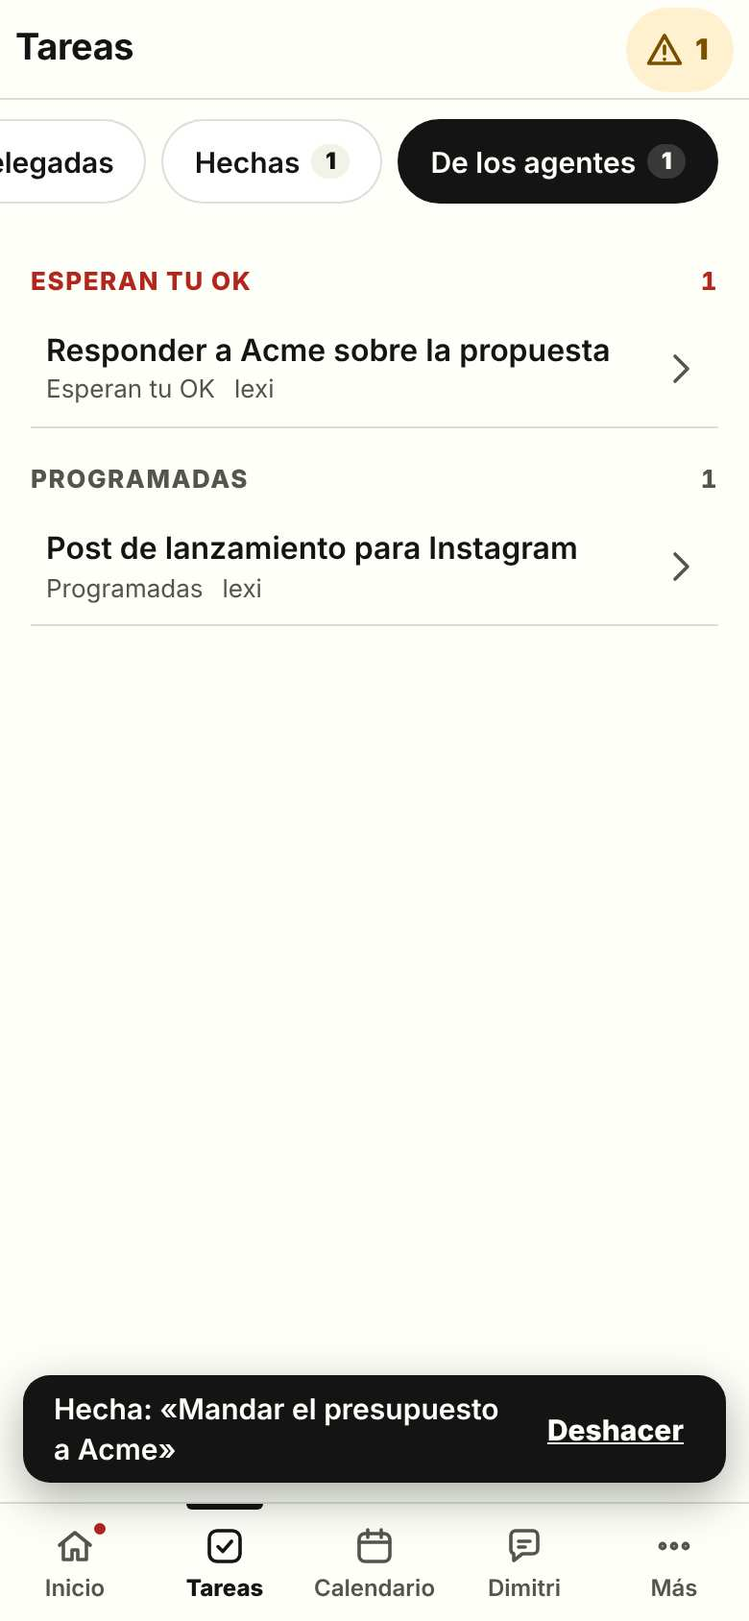
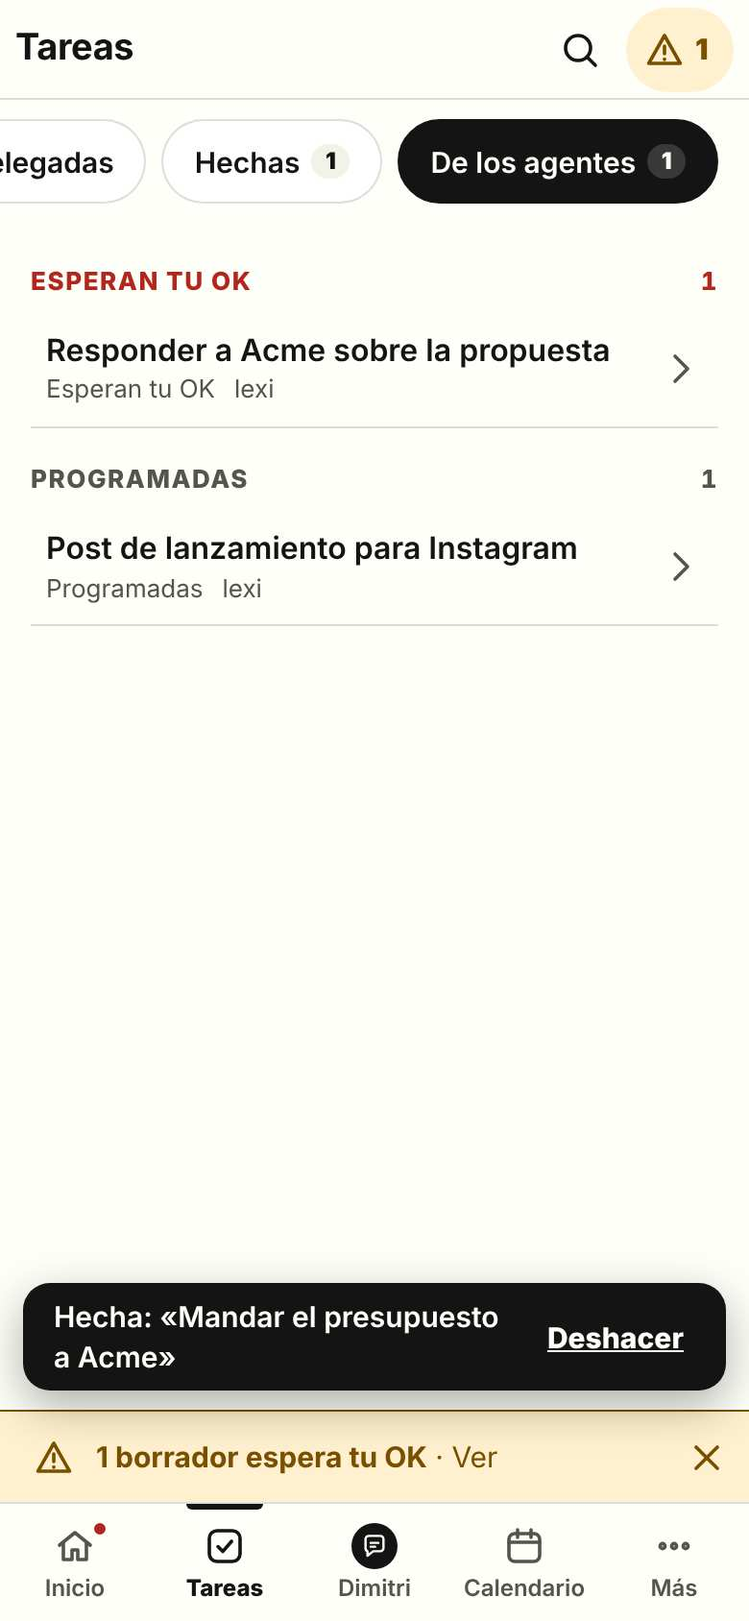
Versión móvil: lo que pidió la auditoría — Dimitri al centro, conectores a la vista, Buscar, franja de aprobación, 3 días, viewport-fit y axe
Barra Inicio · Tareas · Dimitri · Calendario · Más; tarjeta de conectores en Inicio con sus iconos y hoja de detalle; Buscar en la cabecera;
Avisos en Más; franja «N borradores esperan tu OK» sobre la barra (se puede ocultar); vista de 3 días; viewport-fit=cover mientras dura la
versión móvil; el recorrido pasa axe (claro y oscuro) y llega a 119 comprobaciones.

Claude-Session: https://claude.ai/code/session_01VVYE9BByBxn1UtVvnUMS6i

Changed region(s): [[0.0, 0.7701, 1.0, 0.9858], [0.7692, 0.0308, 0.8, 0.0616]]

diff --git a/src/css/movil.css b/src/css/movil.css
@@ -35,6 +35,10 @@ body.movil.subOpen #subOv, body.movil.subOpen #subOv * { visibility: visible; }
 .mv-ic:active { background: var(--mv-surf2); }
 .mv-pend { min-height: 44px; min-width: 56px; padding: 0 12px 0 8px; display: inline-flex; align-items: center; gap: 4px; border: 0; border-radius: 22px; background: var(--mv-ambar-bg); color: var(--mv-ambar); font-weight: 800; font-size: 15px; }
 .mv-pend .mv-i { width: 20px; height: 20px; }
+.mv-franja { position: absolute; z-index: 4; left: 0; right: 0; bottom: calc(var(--mv-tab) + env(safe-area-inset-bottom)); height: 48px; display: flex; align-items: center; background: var(--mv-ambar-bg); color: var(--mv-ambar); border-top: 1px solid var(--mv-ambar); pointer-events: auto; padding-left: env(safe-area-inset-left); }
+.mv-franja[hidden] { display: none; } .mv-franja-b { flex: 1; min-height: 48px; display: flex; align-items: center; gap: 10px; padding: 0 16px; border: 0; background: none; text-align: left; font-size: 15px; } .mv-franja-b .mv-i { width: 22px; height: 22px; }
+#mvRoot.con-franja .mv-main { bottom: calc(var(--mv-tab) + env(safe-area-inset-bottom) + 48px); } #mvRoot.con-franja .mv-toasts { bottom: calc(var(--mv-tab) + env(safe-area-inset-bottom) + 58px); }
+body.mv-teclado .mv-franja { display: none; } body.mv-teclado #mvRoot.con-franja .mv-main { bottom: 0; }
 .mv-conex { font-size: 12px; font-weight: 700; padding: 4px 8px; border-radius: 99px; background: var(--mv-rojo-bg); color: var(--mv-rojo); margin-right: 4px; }
 
 /* ---- el cuerpo y las vistas ---- */
@@ -54,6 +58,8 @@ body.mv-esc .mv-main { display: none; }
 .mv-tabs { position: absolute; z-index: 5; left: 0; right: 0; bottom: 0; height: calc(var(--mv-tab) + env(safe-area-inset-bottom)); padding: 0 env(safe-area-inset-right) env(safe-area-inset-bottom) env(safe-area-inset-left); display: grid; grid-template-columns: repeat(5, 1fr); background: var(--mv-bg); border-top: 1px solid var(--mv-line); pointer-events: auto; }
 .mv-tab { position: relative; min-height: 44px; border: 0; background: none; padding: 6px 2px 4px; display: flex; flex-direction: column; align-items: center; justify-content: center; gap: 2px; font-size: 12px; font-weight: 600; color: var(--mv-grey); }
 .mv-tab.on { color: var(--mv-ink); font-weight: 800; }
+.mv-tab[data-tab="dimitri"] .mv-i { background: var(--mv-ink); color: var(--mv-bg); border-radius: 14px; padding: 4px; width: 38px; height: 30px; }
+.mv-tab[data-tab="dimitri"].on .mv-i { box-shadow: 0 0 0 2px var(--mv-bg), 0 0 0 4px var(--mv-ink); }
 .mv-tab.on::before { content: ''; position: absolute; top: 0; left: 24%; right: 24%; height: 3px; border-radius: 0 0 3px 3px; background: var(--mv-ink); }
 .mv-tab .mv-i { width: 26px; height: 26px; }
 .mv-punto { position: absolute; top: 8px; left: calc(50% + 8px); width: 10px; height: 10px; border-radius: 50%; background: var(--mv-rojo); border: 2px solid var(--mv-bg); }
@@ -174,6 +180,14 @@ body.mv-esc .mv-main { display: none; }
 .mv-mas-link { min-height: 44px; border: 0; background: none; color: var(--mv-azul); font-weight: 700; padding: 0; }
 .mv-atajos { display: grid; grid-template-columns: 1fr 1fr; gap: 10px; margin-top: 4px; } .mv-atajos button { min-height: 76px; border: 1.5px solid var(--mv-line); border-radius: var(--mv-radio); background: var(--mv-surf); display: flex; flex-direction: column; align-items: center; justify-content: center; gap: 4px; font-weight: 700; font-size: 15px; padding: 8px; }
 
+/* ---- conectores ---- */
+.mv-cxs { display: flex; flex-wrap: wrap; gap: 10px; padding: 4px 0 10px; align-items: center; }
+.mv-cx { position: relative; display: inline-grid; place-items: center; width: 40px; height: 40px; border-radius: 11px; background: var(--mv-surf2); flex: none; }
+.mv-cx img { width: 36px; height: 36px; border-radius: 9px; display: block; } .mv-cx b { font-size: 18px; } .mv-cx i { position: absolute; right: -3px; bottom: -3px; width: 12px; height: 12px; border-radius: 50%; border: 2px solid var(--mv-surf); background: var(--mv-acc); }
+.mv-cx.warn i { background: #D18A00; } .mv-cx.bad i { background: var(--mv-rojo); }
+.mv-cx-mas { font-size: 14px; font-weight: 800; color: var(--mv-grey); padding: 0 6px; }
+.mv-cxl { list-style: none; margin: 0 0 10px; padding: 0; } .mv-cxf { display: flex; gap: 14px; align-items: center; padding: 10px 0; border-bottom: 1px solid var(--mv-line); } .mv-cxf-t { display: flex; flex-direction: column; min-width: 0; } .mv-cxf-t small { font-size: 13px; color: var(--mv-grey); } .mv-cxf-t small.ok { color: var(--mv-acc); font-weight: 700; } .mv-cxf-t small.warn { color: var(--mv-ambar); font-weight: 700; } .mv-cxf-t small.bad { color: var(--mv-rojo); font-weight: 700; }
+.mv-mini li.nuevo { font-weight: 700; }
 /* ---- Más ---- */
 .mv-lista { list-style: none; margin: 0; padding: 0; border: 1.5px solid var(--mv-line); border-radius: var(--mv-radio); overflow: hidden; background: var(--mv-surf); } .mv-lista li + li { border-top: 1px solid var(--mv-line); }
 .mv-lista-b { width: 100%; min-height: 60px; display: flex; align-items: center; gap: 14px; padding: 8px 6px 8px 14px; border: 0; background: none; text-align: left; } .mv-lista-b span { flex: 1; display: flex; flex-direction: column; min-width: 0; } .mv-lista-b small { font-size: 13px; color: var(--mv-grey); } .mv-lista-i { width: 26px; height: 26px; }

diff --git a/src/movil/shell.js b/src/movil/shell.js
@@ -34,7 +34,7 @@ import { esc, svg, vacio, esqueleto, falla, html } from './ui.js';
 
 export function crearShell() {
   const registro = new Map(), pila = crearPila();
-  let tab = RAIZ, pantalla = null, enlinea = true, raiz = null, hojas = null, store = null, api = null, activo = false;
+  let franjaNo = false, tab = RAIZ, pantalla = null, enlinea = true, raiz = null, hojas = null, store = null, api = null, activo = false;
   const cab = new Map(); // id de vista → { titulo, acciones } que puso la vista
   const refs = {};
 
@@ -49,16 +49,20 @@ export function crearShell() {
         <div class="mv-bar-der">
           <span class="mv-conex" role="status" hidden>Sin conexión</span>
           <span class="mv-acc" id="mvAcc"></span>
+          <button type="button" class="mv-ic mv-buscar" aria-label="Buscar en la oficina">${svg('buscar')}</button>
           <button type="button" class="mv-pend" id="mvAprob" hidden></button>
         </div>
       </header>
       <main class="mv-main" id="mvMain" tabindex="-1"></main>
+      <div class="mv-franja" hidden><button type="button" class="mv-franja-b" data-ver></button><button type="button" class="mv-ic" data-no aria-label="Ocultar este aviso">${svg('cerrar')}</button></div>
       <nav class="mv-tabs" aria-label="Secciones">${TABS.map(t => `<button type="button" class="mv-tab" data-tab="${t.id}" aria-current="false">${svg(t.id)}<span>${esc(t.titulo)}</span><i class="mv-punto" hidden></i></button>`).join('')}</nav>
       <div class="mv-toasts" aria-live="polite" role="status"></div>`;
     document.body.append(raiz);
     refs.main = $('#mvMain'); refs.titulo = $('#mvTitulo'); refs.atras = $('.mv-atras'); refs.aprob = $('#mvAprob'); refs.acc = $('#mvAcc'); refs.conex = $('.mv-conex'); refs.toasts = $('.mv-toasts');
     refs.atras.addEventListener('click', volver);
+    $('.mv-franja').addEventListener('click', e => { if (e.target.closest('[data-no]')) { franjaNo = true; pintarCabecera(); } else if (e.target.closest('[data-ver]')) navegar('aprobaciones'); });
     refs.aprob.addEventListener('click', () => navegar('aprobaciones'));
+    $('.mv-buscar').addEventListener('click', () => abrirEscritorio('buscar'));
     $('.mv-tabs').addEventListener('click', e => { const b = e.target.closest('[data-tab]'); if (b) irPestana(b.dataset.tab, b); });
     refs.acc.addEventListener('click', e => { const b = e.target.closest('[data-i]'); if (!b) return; const c = cab.get(pantalla || tab); c?.acciones?.[+b.dataset.i]?.alTocar?.(b); });
   }
@@ -135,7 +139,10 @@ export function crearShell() {
     refs.atras.hidden = !(enEsc || pantalla); refs.atras.setAttribute('aria-label', enEsc ? 'Volver a Más' : 'Volver');
     refs.acc.innerHTML = enEsc || hojaAbierta && false ? '' : (c.acciones || []).map((a, i) => `<button type="button" class="mv-ic" data-i="${i}" aria-label="${esc(a.etiqueta)}">${svg(a.icono)}</button>`).join('');
     const n = store ? store.aprobaciones.length : 0;
-    refs.aprob.hidden = !n || enEsc; refs.aprob.innerHTML = `${svg('alerta')}<b>${n}</b>`; refs.aprob.setAttribute('aria-label', `${n} ${n === 1 ? 'espera' : 'esperan'} tu visto bueno. Abrir`);
+    refs.aprob.hidden = !n || (enEsc && pila.cima().item.ventana); refs.aprob.innerHTML = `${svg('alerta')}<b>${n}</b>`; refs.aprob.setAttribute('aria-label', `${n} ${n === 1 ? 'espera' : 'esperan'} tu visto bueno. Abrir`);
+    const fr = raiz.querySelector('.mv-franja'), hay = n > 0 && !franjaNo && id !== 'aprobaciones' && !enEsc;
+    fr.hidden = !hay; raiz.classList.toggle('con-franja', hay);
+    if (hay) fr.querySelector('[data-ver]').innerHTML = `${svg('alerta')}<span><b>${n === 1 ? '1 borrador espera' : n + ' borradores esperan'} tu OK</b> · Ver</span>`;
     const punto = raiz.querySelector('[data-tab="inicio"] .mv-punto'); if (punto) punto.hidden = !n;
   }
 
@@ -234,6 +241,7 @@ export function crearShell() {
     construir();
     hojas = crearHojas({ raiz, empujar, soltar, inertes: () => [$('.mv-bar'), refs.main, $('.mv-tabs')] });
     document.body.classList.add('movil');
+    const mv = document.querySelector('meta[name=viewport]'); if (mv && !/viewport-fit/.test(mv.content)) { mv.dataset.antes = mv.content; mv.content += ', viewport-fit=cover'; } // el contenido llega al borde y env(safe-area-inset-*) deja sitio a la muesca
     addEventListener('popstate', alPopState);
     try { history.replaceState({ mv: 0 }, '', location.href); } catch {}
     const h = leerHash(location.hash); tab = TABS.some(t => t.id === h.vista) ? h.vista : RAIZ; params = h.params;
@@ -243,6 +251,7 @@ export function crearShell() {
   function apagar() {
     if (!activo) return; activo = false; cerrarTodas(); store?.detener(); removeEventListener('popstate', alPopState);
     for (const r of registro.values()) { if (r.montada) { r.def.desmontar?.(r.el, r.ctx); r.el.remove(); r.montada = false; r.el = null; } }
+    const mv = document.querySelector('meta[name=viewport][data-antes]'); if (mv) { mv.content = mv.dataset.antes; delete mv.dataset.antes; }
     raiz?.remove(); raiz = null; hojas = null; document.body.classList.remove('movil', 'mv-esc', 'mv-ventana', 'mv-teclado'); pantalla = null; tab = RAIZ; ultima = null;
   }
   return {

diff --git a/src/movil/vistas/inicio.js b/src/movil/vistas/inicio.js
@@ -4,6 +4,8 @@
 import { deLista, esDelDueno } from '../../../tareas/dueno.mjs';
 import { eventos, horaDe, etiquetaDia } from '../agenda.js';
 import { esc, svg, esqueleto, falla, hace, limiteTexto } from '../ui.js';
+import { tarjetaHTML, abrirConectores } from '../conectores.js';
+import { abrirAvisos } from '../avisos.js';
 import { ymd } from '../ui.js';
 
 const saludo = () => { const h = new Date().getHours(); return h < 6 ? 'Buenas noches' : h < 12 ? 'Buenos días' : h < 19 ? 'Buenas tardes' : 'Buenas noches'; };
@@ -15,6 +17,7 @@ export function registrar(shell) {
     id: 'inicio', titulo: () => empresa() || 'Inicio', icono: 'inicio', grupo: 'tab',
     montar(el, ctx) {
       el.innerHTML = '<div class="mv-scroll"><div class="mv-cuerpo" aria-live="polite"></div></div>';
+      let mcp = null; const cargaMcp = () => ctx.store.conectores().then(j => { mcp = j; pintar(); }).catch(() => {});
       const cuerpo = el.querySelector('.mv-cuerpo'), sc = el.querySelector('.mv-scroll'), st = ctx.store.st;
       function pintar() {
         if (!st.cargado) { cuerpo.innerHTML = st.error ? falla(st.error) : `<h2 class="mv-saludo-t">${saludo()}</h2>${esqueleto(4)}`; return; }
@@ -29,7 +32,8 @@ export function registrar(shell) {
             ${hoy.length ? `<ul class="mv-filas">${hoy.slice(0, 4).map(t => `<li class="mv-fila" data-id="${esc(t.id)}"><button type="button" class="mv-check" data-hecha aria-label="Marcar como hecha: ${esc(t.title)}"><i>${svg('check')}</i></button><button type="button" class="mv-fila-cuerpo" data-abrir><span class="mv-fila-t">${esc(t.title)}</span>${t.limite ? `<span class="mv-fila-m"><span class="${limiteTexto(t.limite).startsWith('vencida') ? 'rojo' : ''}">${esc(limiteTexto(t.limite))}</span></span>` : ''}</button></li>`).join('')}</ul>${hoy.length > 4 ? `<button type="button" class="mv-mas-link" data-tareas>Ver las ${hoy.length}</button>` : ''}` : '<p class="mv-nada">Nada para hoy. Buen momento para adelantar algo.</p>'}</section>
           <section class="mv-card" aria-label="Lo que viene"><button type="button" class="mv-card-cab" data-agenda><span class="mv-card-t">${svg('calendario')} Lo que viene</span>${svg('der', 'mv-der')}</button>
             ${evs.length ? `<ul class="mv-mini ev">${evs.map(e => `<li><time>${esc(etiquetaDia(ymd(new Date(e.at))))} · ${esc(horaDe(e))}</time> ${esc(e.titulo)}</li>`).join('')}</ul>` : '<p class="mv-nada">Nada programado para hoy ni mañana.</p>'}</section>
-          ${avisos.length ? `<section class="mv-card" aria-label="Avisos"><div class="mv-card-cab static"><span class="mv-card-t">${svg('nube')} Avisos</span><button type="button" class="mv-link" data-leidos>Marcar leídos</button></div><ul class="mv-mini">${avisos.map(n => `<li class="${esc(n.level || '')}">${esc(String(n.text).replace(/`/g, '').slice(0, 160))} <time>${n.t ? hace(n.t) : ''}</time></li>`).join('')}</ul></section>` : ''}
+          ${mcp ? tarjetaHTML(mcp) : ''}
+          ${avisos.length ? `<section class="mv-card" aria-label="Avisos"><div class="mv-card-cab static"><span class="mv-card-t">${svg('nube')} Avisos</span><button type="button" class="mv-link" data-avisos>Ver todos</button><button type="button" class="mv-link" data-leidos>Marcar leídos</button></div><ul class="mv-mini">${avisos.map(n => `<li class="${esc(n.level || '')}">${esc(String(n.text).replace(/`/g, '').slice(0, 160))} <time>${n.t ? hace(n.t) : ''}</time></li>`).join('')}</ul></section>` : ''}
           <div class="mv-atajos" role="group" aria-label="Atajos"><button type="button" data-nueva>${svg('mas1')}<span>Añadir tarea</span></button><button type="button" data-dim>${svg('dimitri')}<span>Hablar con Dimitri</span></button><button type="button" data-agenda>${svg('calendario')}<span>Ver la agenda</span></button><button type="button" data-mas>${svg('mas')}<span>Más</span></button></div>`;
       }
       cuerpo.addEventListener('click', async e => {
@@ -41,6 +45,8 @@ export function registrar(shell) {
         if ('nueva' in b.dataset) return ctx.navegar('tareas', { nueva: 1 });
         if ('dim' in b.dataset) return ctx.navegar('dimitri');
         if ('mas' in b.dataset) return document.querySelector('[data-tab="mas"]')?.click();
+        if ('conectores' in b.dataset) { try { abrirConectores(ctx, await ctx.store.conectores(true)); } catch (er) { ctx.toast('No se pudieron leer los conectores: ' + er.message); } return; }
+        if ('avisos' in b.dataset) return abrirAvisos(ctx);
         if ('leidos' in b.dataset) { try { await ctx.api('/api/notices/read', { method: 'POST', body: {} }); } catch {} return ctx.store.refrescar(); }
         if (b.hasAttribute('data-reintentar')) return ctx.store.refrescar();
         const li = b.closest('.mv-fila'); if (!li) return;
@@ -54,8 +60,8 @@ export function registrar(shell) {
       });
       ctx.tirar(sc, () => ctx.store.refrescar());
       ctx.store.alCambiar(() => { if (!el.hidden) pintar(); });
-      pintar();
+      el._mcp = cargaMcp; pintar(); cargaMcp();
     },
-    alMostrar(el, ctx) { ctx.store.refrescar(); },
+    alMostrar(el, ctx) { ctx.store.refrescar(); el._mcp?.(); },
   });
 }

diff --git a/src/movil/vistas/calendario.js b/src/movil/vistas/calendario.js
@@ -14,10 +14,10 @@ export function registrar(shell) {
     id: 'calendario', titulo: 'Calendario', icono: 'calendario', grupo: 'tab',
     montar(el, ctx) {
       let modo = 'agenda', ancla = Date.now(), diaSel = ymd(new Date()), cargando = true; const st = ctx.store.st;
-      el.innerHTML = `<div class="mv-scroll"><div class="mv-seg" role="group" aria-label="Cómo verlo"><button type="button" data-modo="agenda" aria-pressed="true">Agenda</button><button type="button" data-modo="mes" aria-pressed="false">Mes</button></div><div class="mv-cuerpo" aria-live="polite"></div></div>
+      el.innerHTML = `<div class="mv-scroll"><div class="mv-seg" role="group" aria-label="Cómo verlo"><button type="button" data-modo="agenda" aria-pressed="true">Agenda</button><button type="button" data-modo="tres" aria-pressed="false">3 días</button><button type="button" data-modo="mes" aria-pressed="false">Mes</button></div><div class="mv-cuerpo" aria-live="polite"></div></div>
         <button type="button" class="mv-fab" aria-label="Crear una tarea">${svg('mas1')}</button>`;
       const cuerpo = el.querySelector('.mv-cuerpo'), sc = el.querySelector('.mv-scroll'), seg = el.querySelector('.mv-seg');
-      const rangoAgenda = () => { const d = new Date(); d.setHours(0, 0, 0, 0); return [d.getTime(), d.getTime() + 30 * DIA]; };
+      const rangoAgenda = () => { const d = new Date(); d.setHours(0, 0, 0, 0); return [d.getTime(), d.getTime() + (modo === 'tres' ? 3 : 30) * DIA]; };
 
       function item(e) {
         const clase = e.pausada || e.saltada ? ' pausada' : '', extra = e.saltada ? ' · saltada' : e.pausada ? ' · en pausa' : '';
@@ -25,8 +25,8 @@ export function registrar(shell) {
       }
       function pintarAgenda() {
         const [d, h] = rangoAgenda(), evs = eventos({ tareas: st.tareas, rutinas: st.rutinas, desde: d, hasta: h });
-        const g = agrupar(evs, { desde: d, hasta: h });
-        cuerpo.innerHTML = g.map(x => `<section class="mv-dia${x.esHoy ? ' hoy' : ''}" data-dia="${x.dia}"><h3>${esc(x.titulo)}<small>${esc(new Date(x.dia + 'T12:00').toLocaleDateString('es', { day: 'numeric', month: 'short' }))}</small></h3>${x.items.length ? `<ul class="mv-evs">${x.items.map(item).join('')}</ul>` : '<p class="mv-nada">Nada programado.</p>'}</section>`).join('') + (evs.length ? '' : vacio('Nada en 30 días', 'Toca + para poner algo en tu calendario.', { icono: 'calendario' }));
+        const g = agrupar(evs, { desde: d, hasta: h, rellenar: modo === 'tres' });
+        cuerpo.innerHTML = g.map(x => `<section class="mv-dia${x.esHoy ? ' hoy' : ''}" data-dia="${x.dia}"><h3>${esc(x.titulo)}<small>${esc(new Date(x.dia + 'T12:00').toLocaleDateString('es', { day: 'numeric', month: 'short' }))}</small></h3>${x.items.length ? `<ul class="mv-evs">${x.items.map(item).join('')}</ul>` : '<p class="mv-nada">Nada programado.</p>'}</section>`).join('') + (evs.length ? '' : vacio(modo === 'tres' ? 'Nada en 3 días' : 'Nada en 30 días', 'Toca + para poner algo en tu calendario.', { icono: 'calendario' }));
       }
       function pintarMes() {
         const m0 = mesGrid(ancla), evs = eventos({ tareas: st.tareas, rutinas: st.rutinas, desde: m0.desde, hasta: m0.hasta });
@@ -39,7 +39,7 @@ export function registrar(shell) {
       function pintar() {
         seg.querySelectorAll('[data-modo]').forEach(b => b.setAttribute('aria-pressed', String(b.dataset.modo === modo)));
         if (!st.cargado) { cuerpo.innerHTML = st.error ? falla(st.error) : esqueleto(5); return; }
-        if (modo === 'agenda') pintarAgenda(); else pintarMes();
+        if (modo === 'mes') pintarMes(); else pintarAgenda();
       }
 
       // ---- lo que se puede hacer con algo ----
@@ -88,7 +88,7 @@ export function registrar(shell) {
         const ev = e.target.closest('.mv-ev'); if (ev) return abrir(ev);
         if (e.target.closest('[data-reintentar]')) ctx.store.refrescar();
       });
-      ctx.cabecera({ acciones: [{ icono: 'calendario', etiqueta: 'Ir a hoy', alTocar: () => { ancla = Date.now(); diaSel = ymd(new Date()); modo === 'agenda' && sc.scrollTo({ top: 0, behavior: 'smooth' }); pintar(); } }] });
+      ctx.cabecera({ acciones: [{ icono: 'calendario', etiqueta: 'Ir a hoy', alTocar: () => { ancla = Date.now(); diaSel = ymd(new Date()); modo !== 'mes' && sc.scrollTo({ top: 0, behavior: 'smooth' }); pintar(); } }] });
       ctx.tirar(sc, () => ctx.store.refrescar());
       ctx.store.alCambiar(() => { if (!el.hidden) pintar(); });
       pintar();

diff --git a/src/movil/conectores.js b/src/movil/conectores.js
@@ -1,0 +1,34 @@
+// Versión móvil (25 oct 2026) — CONECTORES a la vista: una tarjeta en Inicio con la fila de iconos (los mismos de escritorio, 36 px, con su punto de
+// estado) y una hoja con la lista (icono, nombre, estado en palabras, a qué departamentos llega). Antes, en el teléfono, la barra de conectores se escondía
+// y no había forma de verlos sin pasar por Ajustes. Los iconos se toman de los que la página ya dibujó en su barra (`#topconn img`, por nombre).
+import { esc, svg } from './ui.js';
+
+export const ESTADO = { connected: ['Conectado', 'ok'], 'needs-auth': ['Pide entrar', 'warn'], failed: ['Sin conexión', 'bad'], pending: ['Conectando…', 'warn'], denied: ['Bloqueado para los agentes', 'warn'] };
+const DEPT = { emails: 'Correos', sales: 'Ventas', marketing: 'Marketing', ops: 'Operaciones', fin: 'Finanzas', delivery: 'Entregas' };
+const bonito = n => String(n || '').replace(/^plugin:[^:]+:/, '').replace(/[-_]/g, ' ').replace(/^./, c => c.toUpperCase());
+const sinSistema = s => !!s.name; // todos: el panel de escritorio también lista los apagados
+
+/** el <img src> del conector si la página ya lo dibujó */
+export function iconoDe(nombre) {
+  const n = String(nombre || '').toLowerCase().replace(/[^a-z0-9]/g, '');
+  for (const i of document.querySelectorAll('#topconn img')) if ((i.alt || '').toLowerCase().replace(/[^a-z0-9]/g, '') === n) return i.src;
+  return '';
+}
+const tile = s => { const src = iconoDe(bonito(s.name)) || iconoDe(s.key); const [, tono] = ESTADO[s.status] || ESTADO.pending;
+  return `<span class="mv-cx ${tono}">${src ? `<img src="${esc(src)}" alt="">` : `<b>${esc(bonito(s.name)[0] || '?')}</b>`}<i aria-hidden="true"></i></span>`; };
+
+/** → HTML de la tarjeta de Inicio (o '' si aún no hay datos) */
+export function tarjetaHTML(mcp) {
+  const l = (mcp && mcp.servers || []).filter(sinSistema); if (!l.length) return `<section class="mv-card" aria-label="Conectores"><button type="button" class="mv-card-cab" data-conectores><span class="mv-card-t">${svg('conectores')} Conectores</span>${svg('der', 'mv-der')}</button><p class="mv-nada">Todavía no hay conectores. Conéctalos en Ajustes.</p></section>`;
+  const ok = l.filter(s => s.status === 'connected').length, ver = l.slice().sort((a, b) => (b.status === 'connected') - (a.status === 'connected')).slice(0, 8);
+  return `<section class="mv-card" aria-label="Conectores"><button type="button" class="mv-card-cab" data-conectores><span class="mv-card-t">${svg('conectores')} Conectores <b>${ok} de ${l.length}</b></span>${svg('der', 'mv-der')}</button>
+    <div class="mv-cxs" role="list" aria-label="Estado de cada conector">${ver.map(s => `<span role="listitem" aria-label="${esc(bonito(s.name))}: ${esc((ESTADO[s.status] || ESTADO.pending)[0])}">${tile(s)}</span>`).join('')}${l.length > ver.length ? `<span class="mv-cx-mas">+${l.length - ver.length}</span>` : ''}</div></section>`;
+}
+
+/** la hoja con la lista y el detalle de cada uno */
+export function abrirConectores(ctx, mcp) {
+  const l = (mcp && mcp.servers || []).filter(sinSistema);
+  const fila = s => { const [txt, tono] = ESTADO[s.status] || ESTADO.pending, d = (s.depts || []).map(k => DEPT[k] || k);
+    return `<li class="mv-cxf">${tile(s)}<span class="mv-cxf-t"><b>${esc(bonito(s.name))}</b><small class="${tono}">${esc(txt)}${s.detail ? ' · ' + esc(String(s.detail).slice(0, 80)) : ''}</small><small>${d.length ? 'Llega a: ' + esc(d.join(', ')) : 'No llega a ningún departamento'}</small></span></li>`; };
+  ctx.hoja({ titulo: 'Conectores', lleno: true, cuerpo: l.length ? `<ul class="mv-cxl">${l.map(fila).join('')}</ul><p class="mv-meta">Para añadir o quitar uno: Más → Ajustes → Conectores.</p>` : '<p class="mv-meta">Todavía no hay conectores. Conéctalos en Más → Ajustes.</p>' });
+}

diff --git a/src/movil/vistas/mas.js b/src/movil/vistas/mas.js
@@ -4,6 +4,7 @@
 // registra con `registrarVista({ id, grupo: 'mas', … })`, aquí cambia sola. También: el tema y «usar la versión de escritorio».
 import { GRUPOS } from '../escritorio.js';
 import { esc, svg } from '../ui.js';
+import { abrirAvisos, contar } from '../avisos.js';
 
 const TEMAS = [['light', 'Claro'], ['dark', 'Oscuro'], ['auto', 'Automático']];
 const tema = () => { try { const v = localStorage.getItem('ao.theme'); return v === 'dark' || v === 'auto' ? v : 'light'; } catch { return 'light'; } };
@@ -25,12 +26,13 @@ export function registrar(shell) {
         if (g === 'cuenta' && nube) l.push(entrada('salir', 'salir', 'Salir', 'Cerrar la sesión en este teléfono', 'salir'));
         return l.length ? `<h3 class="mv-gh">${esc(nombre)}</h3><ul class="mv-lista">${l.join('')}</ul>` : '';
       }).join('');
-      const t = tema();
-      const h = ctx.hoja({ titulo: 'Más', lleno: true, clase: 'mv-mas', cuerpo: `${bloques}
+      const nAv = contar(ctx.store.st), t = tema();
+      const h = ctx.hoja({ titulo: 'Más', lleno: true, clase: 'mv-mas', cuerpo: `${`<ul class="mv-lista"><li><button type="button" class="mv-lista-b" data-avisos>${svg('nube', 'mv-lista-i')}<span><b>Avisos</b><small>${nAv ? nAv + ' sin atender' : 'Todo en orden'}</small></span>${svg('der', 'mv-der')}</button></li></ul>`}${bloques}
         <h3 class="mv-gh">Tema</h3><div class="mv-seg" role="group" aria-label="Tema">${TEMAS.map(([k, n]) => `<button type="button" data-tema="${k}" aria-pressed="${t === k}">${n}</button>`).join('')}</div>
-        <h3 class="mv-gh">Versión</h3><ul class="mv-lista"><li><button type="button" class="mv-lista-b" data-escritorio>${svg('escritorio', 'mv-lista-i')}<span><b>Usar la versión de escritorio</b><small>La oficina en 3D. Vuelve desde Ajustes → Apariencia.</small></span></button></li></ul>` });
+        <h3 class="mv-gh">Versión</h3><ul class="mv-lista"><li><button type="button" class="mv-lista-b" data-escritorio>${svg('escritorio', 'mv-lista-i')}<span><b>Oficina 3D (versión de escritorio)</b><small>Pasa a la oficina completa. Vuelve desde Ajustes → Apariencia.</small></span></button></li></ul>` });
       h.cuerpo.addEventListener('click', e => {
         const b = e.target.closest('button'); if (!b) return;
+        if (b.hasAttribute('data-avisos')) { h.cerrar(); setTimeout(() => abrirAvisos(ctx), 260); return; }
         if (b.dataset.tema) { ponerTema(b.dataset.tema); h.cuerpo.querySelectorAll('[data-tema]').forEach(x => x.setAttribute('aria-pressed', String(x === b))); return; }
         if (b.dataset.vista) { h.cerrar(); setTimeout(() => ctx.navegar(b.dataset.vista), 120); return; }
         if (b.dataset.salir) { h.cerrar(); setTimeout(async () => { if (!(await ctx.confirmar({ titulo: '¿Salir de la oficina?', texto: 'Tendrás que volver a entrar con tu correo y contraseña.', ok: 'Salir' }))) return; try { await fetch('/api/salir', { method: 'POST', headers: { 'X-Pestana': window.AO_NUBE?.pestana || '' } }); } catch {} location.replace('/'); }, 240); return; }

diff --git a/src/movil/vistas/dimitri.js b/src/movil/vistas/dimitri.js
@@ -91,7 +91,7 @@ export function registrar(shell) {
 
       // ---- historial y nueva conversación ----
       async function historial() {
-        const h = ctx.hoja({ titulo: 'Conversaciones', cuerpo: '<p class="mv-meta">Cargando…</p>', lleno: true });
+        const h = ctx.hoja({ titulo: 'Conversaciones', cuerpo: '<p class="mv-meta">Cargando…</p>', lleno: true, acciones: [{ texto: 'Conversación nueva', tipo: 'primario', alTocar: x => { x.cerrar(); setTimeout(nueva, 260); } }] });
         try {
           const j = await ctx.api('/api/sub/conversaciones'), lista = j.lista || [];
           const fila = c => `<li class="mv-conv" data-id="${esc(c.id)}"><button type="button" class="mv-conv-b" data-abrir><b>${esc(c.titulo)}</b><small>${new Date(c.at).toLocaleString('es', { day: 'numeric', month: 'short', hour: '2-digit', minute: '2-digit' })} · ${c.n} mensajes</small></button><button type="button" class="mv-ic" data-borrar aria-label="Borrar la conversación «${esc(c.titulo)}»">${svg('borrar')}</button></li>`;
@@ -108,7 +108,7 @@ export function registrar(shell) {
         if (!(await ctx.confirmar({ titulo: '¿Empezar una conversación nueva?', texto: 'La de ahora se guarda en el historial; la puedes abrir después.', ok: 'Empezar' }))) return;
         try { await post('/api/sub/clear', {}); mensajes = []; pintar(false); ctx.toast('Conversación nueva. La anterior está en el historial.'); } catch (e) { ctx.toast('No se pudo: ' + e.message); }
       }
-      ctx.cabecera({ titulo: nombre, acciones: [{ icono: 'historial', etiqueta: 'Conversaciones guardadas', alTocar: historial }, { icono: 'mas1', etiqueta: 'Conversación nueva', alTocar: nueva }] });
+      ctx.cabecera({ titulo: nombre, acciones: [{ icono: 'historial', etiqueta: 'Conversaciones guardadas', alTocar: historial }] });
       el._tick = () => { clearInterval(el._timer); el._timer = setInterval(() => { if (!el.hidden && !ocupado && document.visibilityState === 'visible') ctx.api('/api/sub').then(j => { const l = j.messages || []; if (l.length !== mensajes.length || (l.at(-1)?.id !== mensajes.at(-1)?.id)) { mensajes = l; pintar(); } }).catch(() => {}); }, 9000); };
       el._cargar = cargar; pintar();
     },

diff --git a/src/settings.js b/src/settings.js
@@ -32,7 +32,7 @@ export function initSettings({ served, esc, keys = [], runKey, theme, health = n
     const opt = (v, note) => `<label class="sg-th"><input type="radio" name="sgTheme" value="${v}"${cur === v ? ' checked' : ''}><span class="sg-sw ${v}" aria-hidden="true"><i class="l"></i><i class="d"></i></span><b>${THEME_NAME[v]}</b><small>${note}</small><span class="sg-ok" aria-hidden="true">✓</span></label>`;
     return `<p class="sg-lead">Cómo se ve la oficina en este navegador. Se aplica al instante y se recuerda aquí: cada computadora elige el suyo.</p>
       <fieldset class="sg-theme"><legend>Tema</legend>${opt('light', 'El de siempre. Es el predeterminado.')}${opt('dark', 'Para la noche o una sala a oscuras.')}${opt('auto', `Sigue a tu sistema y cambia con él (ahora: ${sys}).`)}</fieldset>
-      <fieldset class="sg-theme"><legend>Versión</legend>${[['auto', 'Automática (móvil en teléfonos)'], ['movil', 'Móvil'], ['escritorio', 'Escritorio']].map(([v, t]) => `<label class="sg-th"><input type="radio" name="sgMv" value="${v}"${(localStorage.getItem('ao.movil') || 'auto') === v ? ' checked' : ''}><b>${t}</b></label>`).join('')}</fieldset>
+      <fieldset class="sg-theme"><legend>Versión</legend>${[['auto', 'Automática'], ['movil', 'Móvil'], ['escritorio', 'Escritorio']].map(([v, t]) => `<label class="sg-th"><input type="radio" name="sgMv" value="${v}"${(localStorage.getItem('ao.movil') || 'auto') === v ? ' checked' : ''}><b>${t}</b></label>`).join('')}</fieldset>
       <p class="sg-lead">¿Grabas la pantalla? El modo cámara (tecla V) pone un fondo neutro que no se quema en video.</p>`;
   }
   const keysHTML = () => `<div class="sg-keys"><label class="sg-k1"><input type="checkbox" class="sg-k1c"${unaTeclaOn() ? ' checked' : ''}> <span><b>Atajos de una tecla</b> (una letra sola, sin Ctrl). Apágalos si usas control por voz o si a veces pulsas teclas sin querer: Ctrl + K, Esc y las flechas siguen.</span></label><p class="sg-lead">Funcionan cuando no estás escribiendo. Pulsa una línea para hacerlo ahora. <kbd>?</kbd> abre esta lista desde cualquier sitio.</p>

diff --git a/src/movil/avisos.js b/src/movil/avisos.js
@@ -1,0 +1,12 @@
+// Versión móvil (25 oct 2026) — AVISOS: lo que la oficina quiere decirte (lo que espera tu OK primero, luego los avisos sin leer del estado de la oficina).
+import { esc, svg, hace } from './ui.js';
+import { esperanOk } from './datos.js';
+
+export function contar(st) { return esperanOk(st.tareas).length + ((st.status && st.status.notices) || []).filter(n => !n.read).length; }
+export function abrirAvisos(ctx) {
+  const st = ctx.store.st, ap = esperanOk(st.tareas), ns = ((st.status && st.status.notices) || []).slice(0, 30);
+  const h = ctx.hoja({ titulo: 'Avisos', lleno: true, cuerpo: `${ap.length ? `<button type="button" class="mv-banda warn" data-aprob>${svg('alerta')}<span><b>${ap.length === 1 ? '1 borrador espera' : ap.length + ' borradores esperan'} tu OK</b><small>Revisar y aprobar</small></span>${svg('der', 'mv-der')}</button>` : ''}
+      ${ns.length ? `<ul class="mv-mini">${ns.map(n => `<li class="${esc(n.level || '')}${n.read ? '' : ' nuevo'}">${esc(String(n.text).replace(/`/g, ''))} <time>${n.t ? hace(n.t) : ''}</time></li>`).join('')}</ul>` : '<p class="mv-meta">Sin avisos. Todo en orden.</p>'}`,
+    acciones: ns.some(n => !n.read) ? [{ texto: 'Marcar todos como leídos', alTocar: async x => { try { await ctx.api('/api/notices/read', { method: 'POST', body: {} }); } catch {} x.cerrar(); ctx.store.refrescar(); } }] : [] });
+  h.cuerpo.addEventListener('click', e => { if (e.target.closest('[data-aprob]')) { h.cerrar(); setTimeout(() => ctx.navegar('aprobaciones'), 260); } });
+}

diff --git a/src/movil/datos.js b/src/movil/datos.js
@@ -22,7 +22,7 @@ export const esperanOk = tareas => tareas.filter(t => t && !t.archived && !t.pie
 
 export function crearStore(api, { cada = 20000 } = {}) {
   const st = { tareas: [], rutinas: [], status: null, cargado: false, error: null };
-  const subs = new Set(); let pidiendo = null, timer = null, ag = null;
+  const subs = new Set(); let pidiendo = null, timer = null, ag = null, mc = null, mcAt = 0;
   const emitir = () => { for (const f of subs) { try { f(st); } catch (e) { console.error(e); } } };
   async function refrescar() {
     if (pidiendo) return pidiendo;
@@ -47,6 +47,8 @@ export function crearStore(api, { cada = 20000 } = {}) {
     st, refrescar, iniciar, detener,
     alCambiar(f) { subs.add(f); return () => subs.delete(f); },
     get aprobaciones() { return esperanOk(st.tareas); },
+    /** Los conectores (/api/mcp: en la nube, los MCP remotos de la oficina). Se guarda un minuto. */
+    async conectores(fresco = false) { if (!fresco && mc && Date.now() - mcAt < 60e3) return mc; mc = await api('/api/mcp'); mcAt = Date.now(); return mc; },
     /** El plantel (id, name, dept, lead): una sola vez; sirve para decir «Ana · Ventas» en vez de un id. */
     agentes() { return (ag ||= api('/api/agents').then(j => j.agents || []).catch(() => { ag = null; return []; })); },
   };

diff --git a/src/movil/agenda.js b/src/movil/agenda.js
@@ -44,10 +44,11 @@ export function eventos({ tareas = [], rutinas = [], desde, hasta, hechas = fals
 }
 
 /** Agrupa por día. Siempre incluye el día de `ahora` si cae en el rango (aunque esté vacío: «Hoy · nada»). */
-export function agrupar(evs, { ahora = Date.now(), desde, hasta, conHoyVacio = true } = {}) {
+export function agrupar(evs, { ahora = Date.now(), desde, hasta, conHoyVacio = true, rellenar = false } = {}) {
   const por = new Map();
   for (const e of evs) { const k = ymd(new Date(e.at)); if (!por.has(k)) por.set(k, []); por.get(k).push(e); }
   const hoy = ymd(new Date(ahora));
+  if (rellenar) for (let t = startOfDay(desde); t < hasta; t += DIA) { const k = ymd(new Date(t + DIA / 2)); if (!por.has(k)) por.set(k, []); } // la vista de 3 días enseña los tres, aunque estén vacíos
   if (conHoyVacio && ahora >= desde && ahora < hasta && !por.has(hoy)) por.set(hoy, []);
   return [...por].sort(([a], [b]) => a.localeCompare(b)).map(([dia, items]) => ({ dia, titulo: etiquetaDia(dia, ahora), esHoy: dia === hoy, items }));
 }

diff --git a/src/movil-carga.js b/src/movil-carga.js
@@ -4,7 +4,7 @@ export function initMovil() {
   const go = () => {
     if (window.AO_MOVIL) return AO_MOVIL.sync();
     let p; try { p = localStorage.getItem('ao.movil'); } catch {}
-    if (window.__mv || !(p === 'movil' || (p !== 'escritorio' && mq.matches))) return; window.__mv = 1;
+    if (location.protocol == 'file:' || window.__mv || !(p === 'movil' || (p !== 'escritorio' && mq.matches))) return; window.__mv = 1;
     de.classList.add('mv-pre'); const s = document.createElement('script'); s.src = 'movil.js';
     s.onerror = () => { window.__mv = 0; de.classList.remove('mv-pre'); }; document.head.appendChild(s);
   };
